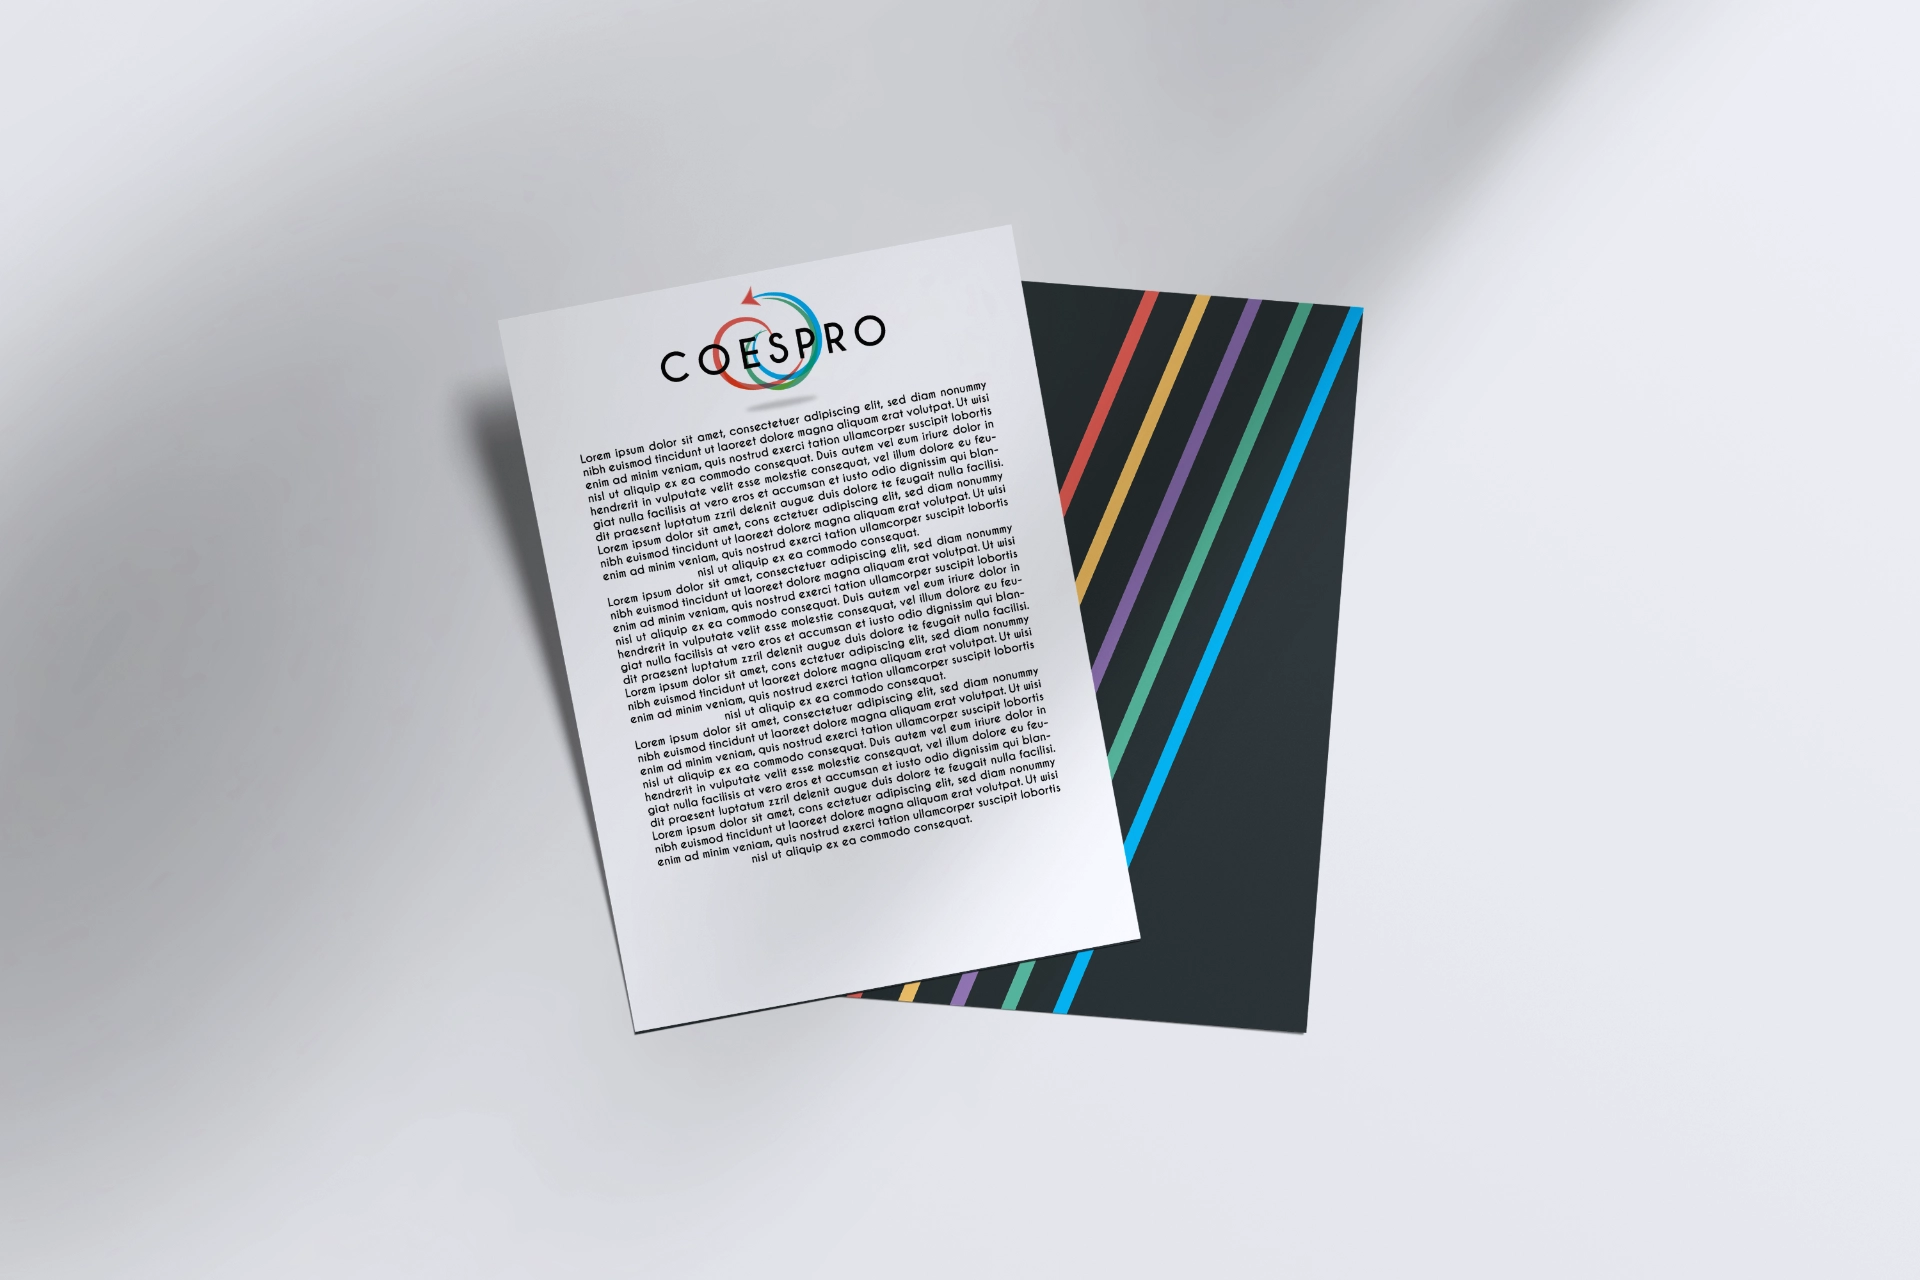
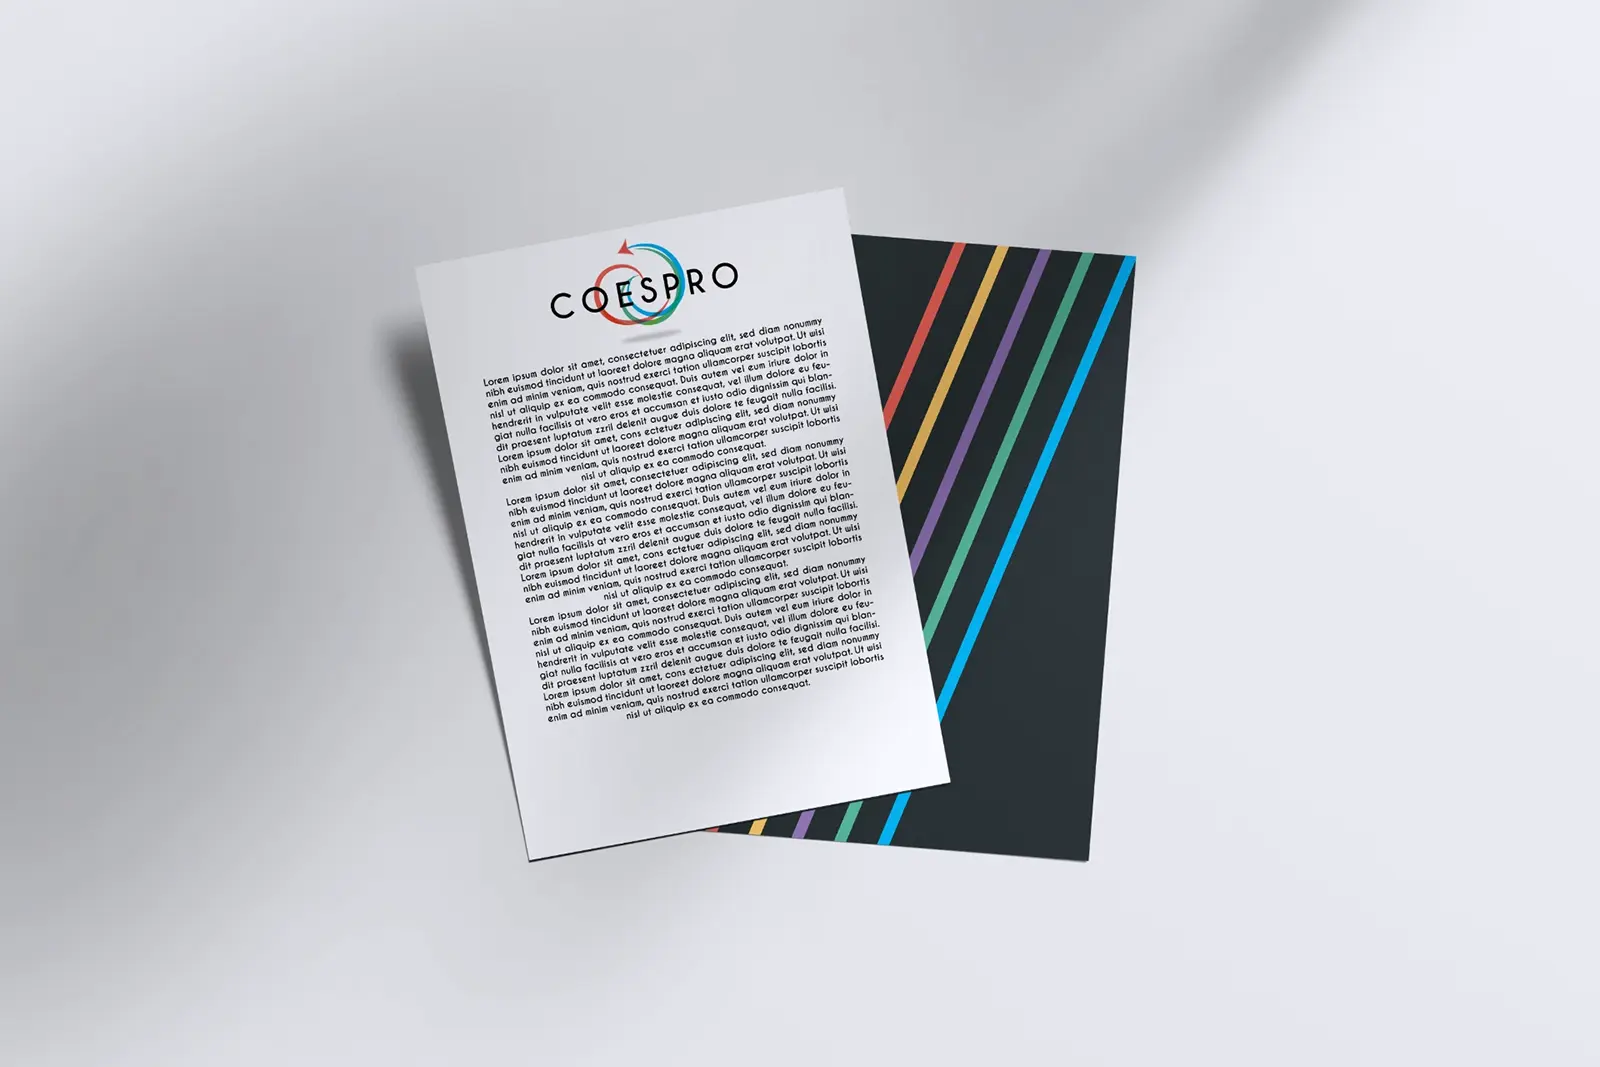
optimizar imagenes

Changed region(s): [[0.3125, 0.3093, 0.5625, 0.6804]]

diff --git a/src/content/work/maryachi.md b/src/content/work/maryachi.md
@@ -1,7 +1,7 @@
 ---
 title: Maryachi
 publishDate: 2024-10-07 00:00:00
-img: /assets/projects/maryachi/portrait.jpg
+img: /assets/projects/maryachi/portrait.webp
 img_alt: ""
 description: |
   Maryachi es una marca de playeras, accesorios y productos creados con amor y orgullo mexicano en la que he aportado mis conocimientos en diseño grafico y multimedia con contenido para sus redes sociales y pagina web
@@ -13,17 +13,17 @@ tags:
   - Branding
   - Redes Sociales
 images:
-  - src: /assets/projects/maryachi/1.jpg
+  - src: /assets/projects/maryachi/1.webp
     img_alt: Descripción de la imagen 1
-  - src: /assets/projects/maryachi/2.jpg
+  - src: /assets/projects/maryachi/2.webp
     img_alt: Descripción de la imagen 2
-  - src: /assets/projects/maryachi/3.jpg
+  - src: /assets/projects/maryachi/3.webp
     img_alt: Descripción de la imagen 3
-  - src: /assets/projects/maryachi/4.jpg
+  - src: /assets/projects/maryachi/4.webp
     img_alt: Descripción de la imagen 4
-  - src: /assets/projects/maryachi/5.jpg
+  - src: /assets/projects/maryachi/5.webp
     img_alt: Descripción de la imagen 5
-  - src: /assets/projects/maryachi/6.jpg
+  - src: /assets/projects/maryachi/6.webp
     img_alt: Descripción de la imagen 6
 haveVideos: true
 ---

diff --git a/src/content/work/carniceria-los-corrales.md b/src/content/work/carniceria-los-corrales.md
@@ -1,7 +1,7 @@
 ---
 title: Carniceria Los Corrales
 publishDate: 2019-12-03 00:00:00
-img: /assets/projects/los-corrales/los-corrales-7.jpg
+img: /assets/projects/los-corrales/los-corrales-7.webp
 img_alt: botellas de mezcal en una mesa
 description: |
   Mi experiencia laboral inició con mis prácticas profesionales en la Carnicería Los Corrales en el departamento de Diseño. Donde algunas de las actividades a realizar fue apoyo como creadora de contenido en redes sociales, fotografía, creación de marca y material impreso.
@@ -12,11 +12,11 @@ tags:
   - Branding
   - Fotografia
 images:
-  - src: /assets/projects/los-corrales/los-corrales-1.jpg
+  - src: /assets/projects/los-corrales/los-corrales-1.webp
     img_alt: Descripción de la imagen 1
-  - src: /assets/projects/los-corrales/los-corrales-2.jpg
+  - src: /assets/projects/los-corrales/los-corrales-2.webp
     img_alt: Descripción de la imagen 2
-  - src: /assets/projects/los-corrales/los-corrales-3.jpg
+  - src: /assets/projects/los-corrales/los-corrales-3.webp
     img_alt: Descripción de la imagen 3
   - src: /assets/projects/los-corrales/los-corrales-4.webp
     img_alt: Descripción de la imagen 4

diff --git a/src/content/work/kaab.md b/src/content/work/kaab.md
@@ -13,7 +13,7 @@ tags:
   - Branding
   - Redes Sociales
 images:
-  - src: /assets/projects/kaab/Kaab-09.jpg
+  - src: /assets/projects/kaab/Kaab-09.webp
     img_alt: Descripción de la imagen 1
   - src: /assets/projects/kaab/Kaab-01.webp
     img_alt: Descripción de la imagen 2
@@ -23,13 +23,13 @@ images:
     img_alt: Descripción de la imagen 4
   - src: /assets/projects/kaab/Kaab-05.webp
     img_alt: Descripción de la imagen 5
-  - src: /assets/projects/kaab/Kaab-07.jpg
+  - src: /assets/projects/kaab/Kaab-07.webp
     img_alt: Descripción de la imagen 6
-  - src: /assets/projects/kaab/Kaab-08.jpg
+  - src: /assets/projects/kaab/Kaab-08.webp
     img_alt: Descripción de la imagen 7
   - src: /assets/projects/kaab/Kaab-02.webp
     img_alt: Descripción de la imagen 8
-  - src: /assets/projects/kaab/Kaab-06.jpg
+  - src: /assets/projects/kaab/Kaab-06.webp
     img_alt: Descripción de la imagen 9
 video: https://player.vimeo.com/video/744851313?h=1b866b7831
 ---
